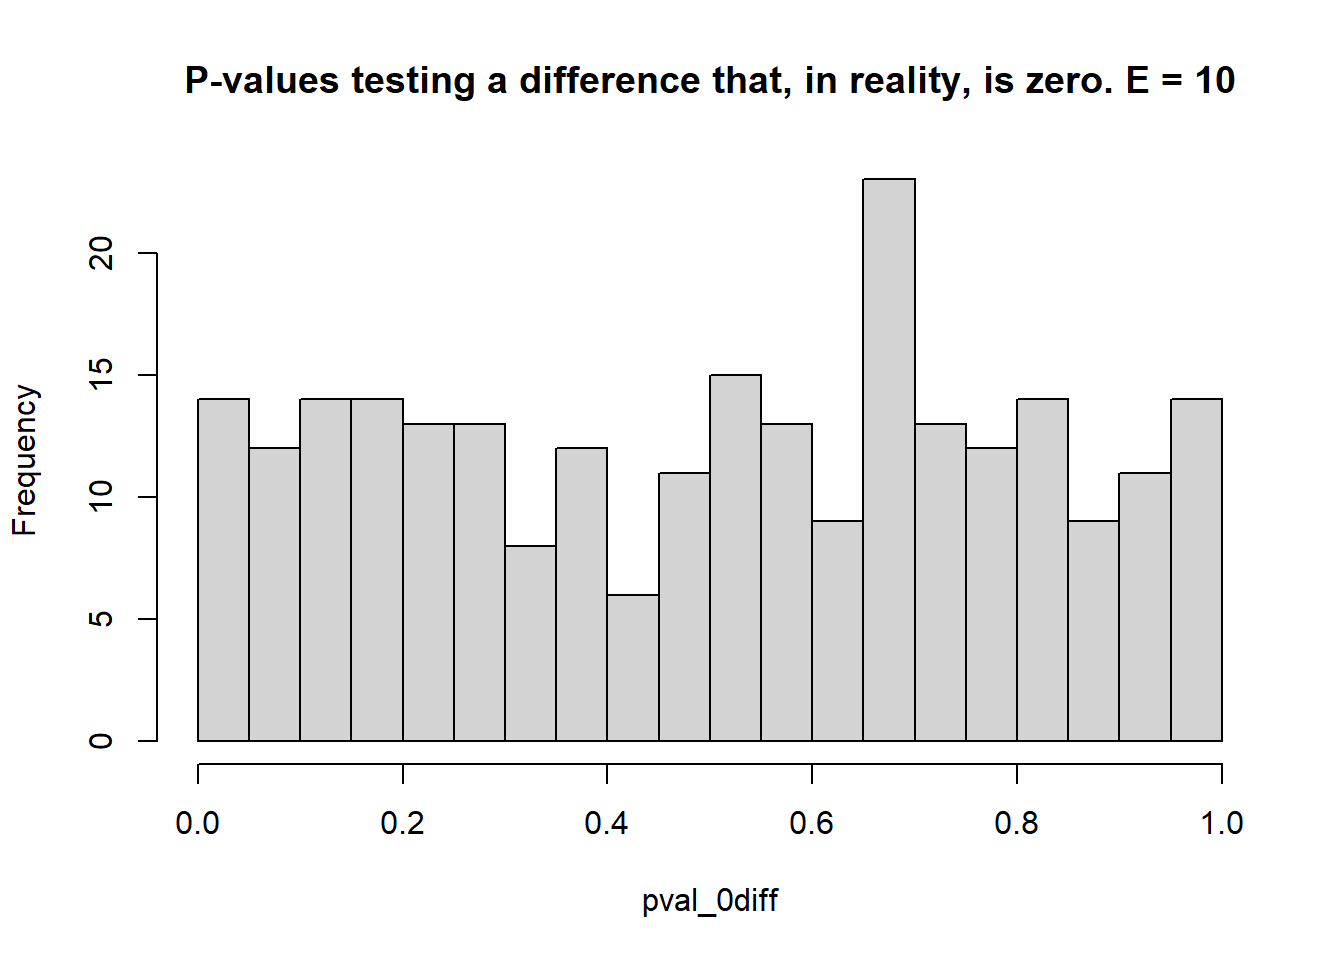
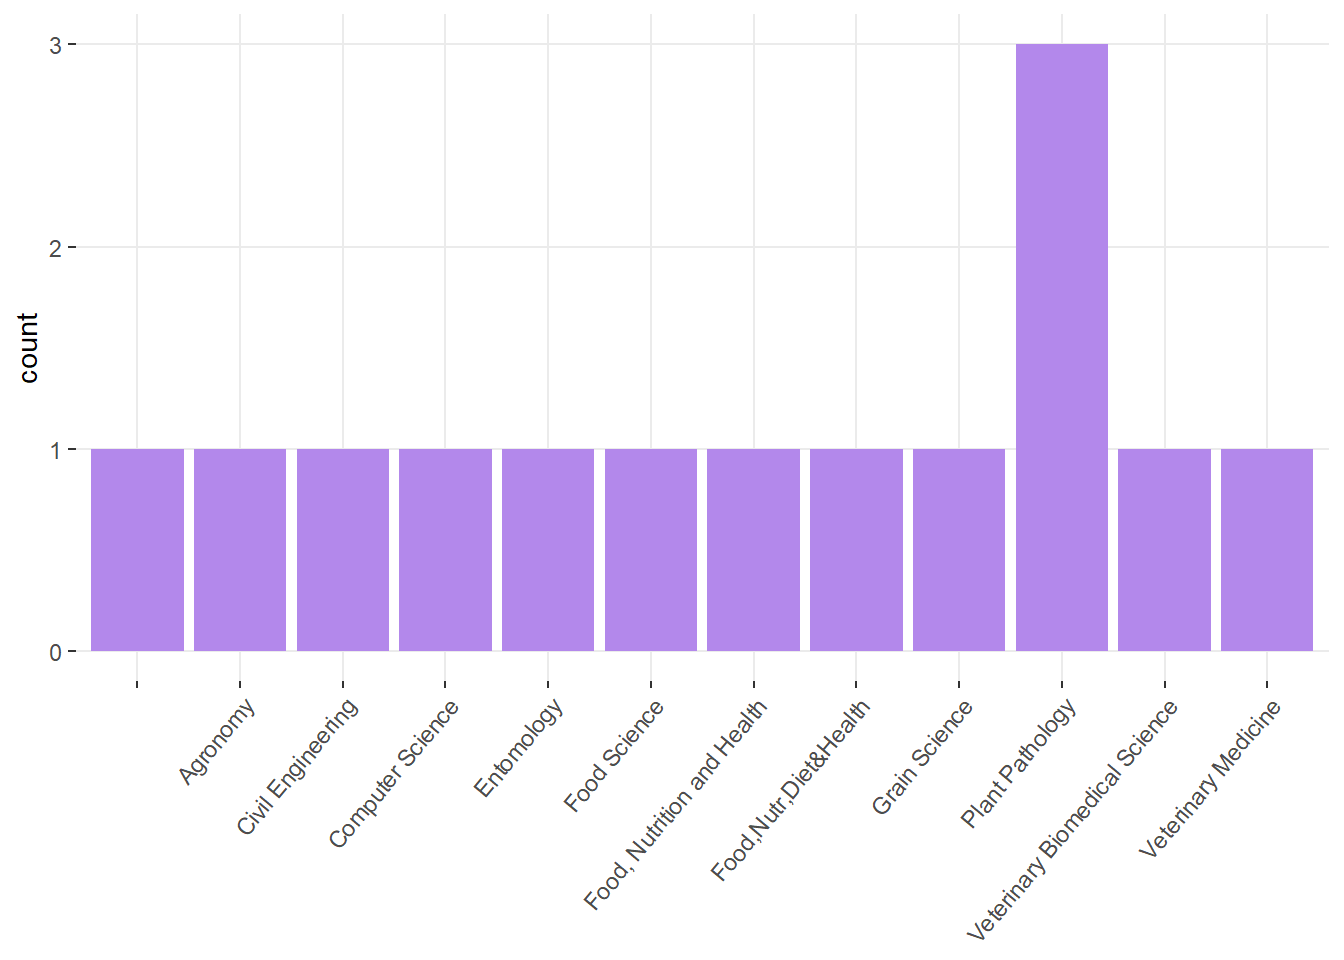
notes

diff --git a/notes/semester-project.html b/notes/semester-project.html
@@ -96,10 +96,11 @@
 <li class="chapter" data-level="2.1" data-path="semester-project.html"><a href="semester-project.html#learning-objectives"><i class="fa fa-check"></i><b>2.1</b> Learning objectives</a></li>
 <li class="chapter" data-level="2.2" data-path="semester-project.html"><a href="semester-project.html#partial-deadlines"><i class="fa fa-check"></i><b>2.2</b> Partial deadlines</a>
 <ul>
-<li class="chapter" data-level="2.2.1" data-path="semester-project.html"><a href="semester-project.html#project-proposal---due-friday-june-20-at-2pm-ct"><i class="fa fa-check"></i><b>2.2.1</b> Project proposal - Due Friday June 20 at 2pm CT</a></li>
-<li class="chapter" data-level="2.2.2" data-path="semester-project.html"><a href="semester-project.html#written-report---due-wednesday-july-23-at-2pm-ct-for-peer-review"><i class="fa fa-check"></i><b>2.2.2</b> Written report - Due Wednesday July 23 at 2pm CT for peer review</a></li>
-<li class="chapter" data-level="2.2.3" data-path="semester-project.html"><a href="semester-project.html#oral-presentation---somewhere-between-july-21---august-1"><i class="fa fa-check"></i><b>2.2.3</b> Oral presentation - Somewhere between July 21 - August 1</a></li>
-<li class="chapter" data-level="2.2.4" data-path="semester-project.html"><a href="semester-project.html#practical-reads"><i class="fa fa-check"></i><b>2.2.4</b> Practical reads</a></li>
+<li class="chapter" data-level="2.2.1" data-path="semester-project.html"><a href="semester-project.html#project-proposal---due-friday-june-12-at-2pm-ct"><i class="fa fa-check"></i><b>2.2.1</b> Project proposal - Due Friday June 12 at 2pm CT</a></li>
+<li class="chapter" data-level="2.2.2" data-path="semester-project.html"><a href="semester-project.html#written-report---due-wednesday-july-1-at-2pm-ct-for-peer-review"><i class="fa fa-check"></i><b>2.2.2</b> Written report - Due Wednesday July 1 at 2pm CT for peer review</a></li>
+<li class="chapter" data-level="2.2.3" data-path="semester-project.html"><a href="semester-project.html#oral-presentation---somewhere-between-july-8---july-14"><i class="fa fa-check"></i><b>2.2.3</b> Oral presentation - Somewhere between July 8 - July 14</a></li>
+<li class="chapter" data-level="2.2.4" data-path="semester-project.html"><a href="semester-project.html#final-written-report---due-wednesday-july-16-at-1159pm-ct"><i class="fa fa-check"></i><b>2.2.4</b> FINAL written report - Due Wednesday July 16 at 11:59pm CT</a></li>
+<li class="chapter" data-level="2.2.5" data-path="semester-project.html"><a href="semester-project.html#practical-reads"><i class="fa fa-check"></i><b>2.2.5</b> Practical reads</a></li>
 </ul></li>
 </ul></li>
 <li class="divider"></li>
@@ -135,13 +136,13 @@
 </div>
 <div id="partial-deadlines" class="section level2 hasAnchor" number="2.2">
 <h2><span class="header-section-number">2.2</span> Partial deadlines<a href="semester-project.html#partial-deadlines" class="anchor-section" aria-label="Anchor link to header"></a></h2>
-<div id="project-proposal---due-friday-june-20-at-2pm-ct" class="section level3 hasAnchor" number="2.2.1">
-<h3><span class="header-section-number">2.2.1</span> Project proposal - Due Friday June 20 at 2pm CT<a href="semester-project.html#project-proposal---due-friday-june-20-at-2pm-ct" class="anchor-section" aria-label="Anchor link to header"></a></h3>
+<div id="project-proposal---due-friday-june-12-at-2pm-ct" class="section level3 hasAnchor" number="2.2.1">
+<h3><span class="header-section-number">2.2.1</span> Project proposal - Due Friday June 12 at 2pm CT<a href="semester-project.html#project-proposal---due-friday-june-12-at-2pm-ct" class="anchor-section" aria-label="Anchor link to header"></a></h3>
 <p>Write a page-long project proposal that states your research problem and the objective of your project. An example of an appropriate project proposal can be found <a href="https://stat720.github.io/summer2025/assignments/proposal_example.pdf">here</a>.</p>
 </div>
-<div id="written-report---due-wednesday-july-23-at-2pm-ct-for-peer-review" class="section level3 hasAnchor" number="2.2.2">
-<h3><span class="header-section-number">2.2.2</span> Written report - Due Wednesday July 23 at 2pm CT for peer review<a href="semester-project.html#written-report---due-wednesday-july-23-at-2pm-ct-for-peer-review" class="anchor-section" aria-label="Anchor link to header"></a></h3>
-<p>Submit a manuscript including:</p>
+<div id="written-report---due-wednesday-july-1-at-2pm-ct-for-peer-review" class="section level3 hasAnchor" number="2.2.2">
+<h3><span class="header-section-number">2.2.2</span> Written report - Due Wednesday July 1 at 2pm CT for peer review<a href="semester-project.html#written-report---due-wednesday-july-1-at-2pm-ct-for-peer-review" class="anchor-section" aria-label="Anchor link to header"></a></h3>
+<p>Send a manuscript to one of your peers, including:</p>
 <ul>
 <li>Introduction (background &amp; justification of the problem)</li>
 <li>Methods, including:
@@ -154,8 +155,8 @@
 <li>Discussion of strengths and weaknesses of the experiment design (e.g., compare an RCBD with a split-plot design)</li>
 </ul>
 </div>
-<div id="oral-presentation---somewhere-between-july-21---august-1" class="section level3 hasAnchor" number="2.2.3">
-<h3><span class="header-section-number">2.2.3</span> Oral presentation - Somewhere between July 21 - August 1<a href="semester-project.html#oral-presentation---somewhere-between-july-21---august-1" class="anchor-section" aria-label="Anchor link to header"></a></h3>
+<div id="oral-presentation---somewhere-between-july-8---july-14" class="section level3 hasAnchor" number="2.2.3">
+<h3><span class="header-section-number">2.2.3</span> Oral presentation - Somewhere between July 8 - July 14<a href="semester-project.html#oral-presentation---somewhere-between-july-8---july-14" class="anchor-section" aria-label="Anchor link to header"></a></h3>
 <p>Prepare a 15 minute presentation of the core aspects of your project.
 Presentations should include at least:</p>
 <ul>
@@ -165,8 +166,12 @@ Presentations should include at least:</p>
 <li>Discussion of strengths and weaknesses</li>
 </ul>
 </div>
-<div id="practical-reads" class="section level3 hasAnchor" number="2.2.4">
-<h3><span class="header-section-number">2.2.4</span> Practical reads<a href="semester-project.html#practical-reads" class="anchor-section" aria-label="Anchor link to header"></a></h3>
+<div id="final-written-report---due-wednesday-july-16-at-1159pm-ct" class="section level3 hasAnchor" number="2.2.4">
+<h3><span class="header-section-number">2.2.4</span> FINAL written report - Due Wednesday July 16 at 11:59pm CT<a href="semester-project.html#final-written-report---due-wednesday-july-16-at-1159pm-ct" class="anchor-section" aria-label="Anchor link to header"></a></h3>
+<p>Submit your reviewed manuscript on CANVAS, including your peer’s and the instructor’s feedback.</p>
+</div>
+<div id="practical-reads" class="section level3 hasAnchor" number="2.2.5">
+<h3><span class="header-section-number">2.2.5</span> Practical reads<a href="semester-project.html#practical-reads" class="anchor-section" aria-label="Anchor link to header"></a></h3>
 <ul>
 <li>Casler, M.D. (2015), Fundamentals of Experimental Design: Guidelines for Designing Successful Experiments. Agronomy Journal, 107: 692-705. <a href="https://doi.org/10.2134/agronj2013.0114" class="uri">https://doi.org/10.2134/agronj2013.0114</a><br />
 </li>

diff --git a/notes/404.html b/notes/404.html
@@ -96,10 +96,11 @@
 <li class="chapter" data-level="2.1" data-path="semester-project.html"><a href="semester-project.html#learning-objectives"><i class="fa fa-check"></i><b>2.1</b> Learning objectives</a></li>
 <li class="chapter" data-level="2.2" data-path="semester-project.html"><a href="semester-project.html#partial-deadlines"><i class="fa fa-check"></i><b>2.2</b> Partial deadlines</a>
 <ul>
-<li class="chapter" data-level="2.2.1" data-path="semester-project.html"><a href="semester-project.html#project-proposal---due-friday-june-20-at-2pm-ct"><i class="fa fa-check"></i><b>2.2.1</b> Project proposal - Due Friday June 20 at 2pm CT</a></li>
-<li class="chapter" data-level="2.2.2" data-path="semester-project.html"><a href="semester-project.html#written-report---due-wednesday-july-23-at-2pm-ct-for-peer-review"><i class="fa fa-check"></i><b>2.2.2</b> Written report - Due Wednesday July 23 at 2pm CT for peer review</a></li>
-<li class="chapter" data-level="2.2.3" data-path="semester-project.html"><a href="semester-project.html#oral-presentation---somewhere-between-july-21---august-1"><i class="fa fa-check"></i><b>2.2.3</b> Oral presentation - Somewhere between July 21 - August 1</a></li>
-<li class="chapter" data-level="2.2.4" data-path="semester-project.html"><a href="semester-project.html#practical-reads"><i class="fa fa-check"></i><b>2.2.4</b> Practical reads</a></li>
+<li class="chapter" data-level="2.2.1" data-path="semester-project.html"><a href="semester-project.html#project-proposal---due-friday-june-12-at-2pm-ct"><i class="fa fa-check"></i><b>2.2.1</b> Project proposal - Due Friday June 12 at 2pm CT</a></li>
+<li class="chapter" data-level="2.2.2" data-path="semester-project.html"><a href="semester-project.html#written-report---due-wednesday-july-1-at-2pm-ct-for-peer-review"><i class="fa fa-check"></i><b>2.2.2</b> Written report - Due Wednesday July 1 at 2pm CT for peer review</a></li>
+<li class="chapter" data-level="2.2.3" data-path="semester-project.html"><a href="semester-project.html#oral-presentation---somewhere-between-july-8---july-14"><i class="fa fa-check"></i><b>2.2.3</b> Oral presentation - Somewhere between July 8 - July 14</a></li>
+<li class="chapter" data-level="2.2.4" data-path="semester-project.html"><a href="semester-project.html#final-written-report---due-wednesday-july-16-at-1159pm-ct"><i class="fa fa-check"></i><b>2.2.4</b> FINAL written report - Due Wednesday July 16 at 11:59pm CT</a></li>
+<li class="chapter" data-level="2.2.5" data-path="semester-project.html"><a href="semester-project.html#practical-reads"><i class="fa fa-check"></i><b>2.2.5</b> Practical reads</a></li>
 </ul></li>
 </ul></li>
 <li class="divider"></li>

diff --git a/notes/index.html b/notes/index.html
@@ -96,10 +96,11 @@
 <li class="chapter" data-level="2.1" data-path="semester-project.html"><a href="semester-project.html#learning-objectives"><i class="fa fa-check"></i><b>2.1</b> Learning objectives</a></li>
 <li class="chapter" data-level="2.2" data-path="semester-project.html"><a href="semester-project.html#partial-deadlines"><i class="fa fa-check"></i><b>2.2</b> Partial deadlines</a>
 <ul>
-<li class="chapter" data-level="2.2.1" data-path="semester-project.html"><a href="semester-project.html#project-proposal---due-friday-june-20-at-2pm-ct"><i class="fa fa-check"></i><b>2.2.1</b> Project proposal - Due Friday June 20 at 2pm CT</a></li>
-<li class="chapter" data-level="2.2.2" data-path="semester-project.html"><a href="semester-project.html#written-report---due-wednesday-july-23-at-2pm-ct-for-peer-review"><i class="fa fa-check"></i><b>2.2.2</b> Written report - Due Wednesday July 23 at 2pm CT for peer review</a></li>
-<li class="chapter" data-level="2.2.3" data-path="semester-project.html"><a href="semester-project.html#oral-presentation---somewhere-between-july-21---august-1"><i class="fa fa-check"></i><b>2.2.3</b> Oral presentation - Somewhere between July 21 - August 1</a></li>
-<li class="chapter" data-level="2.2.4" data-path="semester-project.html"><a href="semester-project.html#practical-reads"><i class="fa fa-check"></i><b>2.2.4</b> Practical reads</a></li>
+<li class="chapter" data-level="2.2.1" data-path="semester-project.html"><a href="semester-project.html#project-proposal---due-friday-june-12-at-2pm-ct"><i class="fa fa-check"></i><b>2.2.1</b> Project proposal - Due Friday June 12 at 2pm CT</a></li>
+<li class="chapter" data-level="2.2.2" data-path="semester-project.html"><a href="semester-project.html#written-report---due-wednesday-july-1-at-2pm-ct-for-peer-review"><i class="fa fa-check"></i><b>2.2.2</b> Written report - Due Wednesday July 1 at 2pm CT for peer review</a></li>
+<li class="chapter" data-level="2.2.3" data-path="semester-project.html"><a href="semester-project.html#oral-presentation---somewhere-between-july-8---july-14"><i class="fa fa-check"></i><b>2.2.3</b> Oral presentation - Somewhere between July 8 - July 14</a></li>
+<li class="chapter" data-level="2.2.4" data-path="semester-project.html"><a href="semester-project.html#final-written-report---due-wednesday-july-16-at-1159pm-ct"><i class="fa fa-check"></i><b>2.2.4</b> FINAL written report - Due Wednesday July 16 at 11:59pm CT</a></li>
+<li class="chapter" data-level="2.2.5" data-path="semester-project.html"><a href="semester-project.html#practical-reads"><i class="fa fa-check"></i><b>2.2.5</b> Practical reads</a></li>
 </ul></li>
 </ul></li>
 <li class="divider"></li>

diff --git a/README.md b/README.md
@@ -9,7 +9,7 @@ seo:
 ---
 
 # STAT 720 - Design of Experiments  
-Summer 2025   
+Summer 2026   
 Kansas State University
 
 **Instructor:** Dr. Josefina Lacasa  